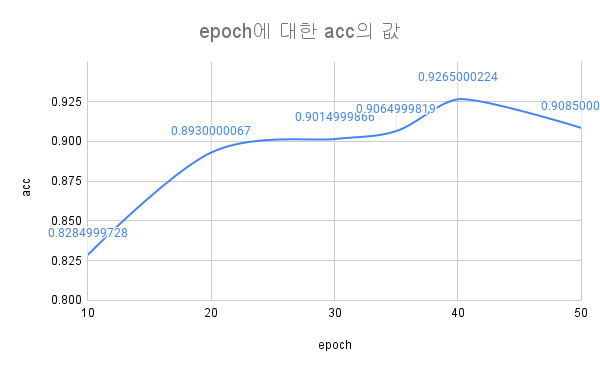
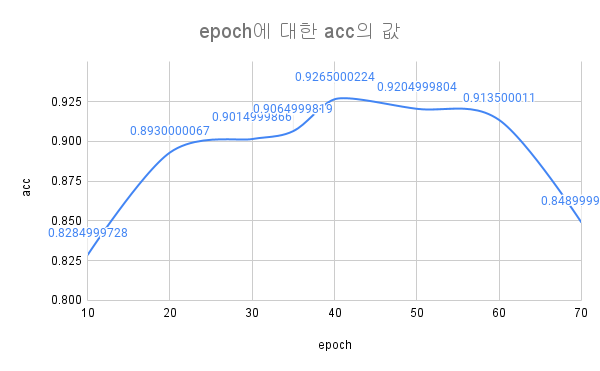
docs: update readme

diff --git a/README.md b/README.md
@@ -22,39 +22,86 @@
 
 ## Experiment
 
-### example(Jupyter Notebook)
+### Example(Jupyter Notebook)
 
 - [cats_and_dogs.ipynb](./cats_and_dogs.ipynb)
 
-### reporting source
+### Reporting source
 
 - [cats_and_dogs_script.py](./src/cats_and_dogs_script.py)
 - [cnn.py(class)](./src/cnn.py)
 
 ## Report
 
-### 실험 환경
+### Experiment Result
+
+- 2021.10.25
+    - 92.65%
+
+### Experiment Environment
 
 - windows 10
 - anaconda3, python 3.9
 - tensorflow 2.5.0
 
-### 하이퍼 파라미터
+### Hyper Parameters
 
 |파라미터|실험 값|최적 값|
 |------|---|---|
 |dropout|0.1, 0.2, 0.3, 0.4, 0.5|0.3|
 |learning rate|0.0001, 0.0003, 0.0005, 0.0007, 0.001, 0.003|0.0007|
-|epoch|10, 20, 30, 35, 40, 50|40|
+|epoch|10, 20, 30, 35, 40, 50, 60, 70|40|
 
-### Chart
+### Uniqueness
 
-![lr_acc](./report/learning_rate_acc.png)
-
+dropout
 ![dropout_acc](./report/dropout_acc.png)
 
+- 기본적으로 높아질 수록 성능이 떨어지는 것으로 보인다.
+- dropout 수치에 10을 곱하여 홀수이면 성능이 낮았고 짝수면 성능이 올라갔다.
+
+learning rate
+![lr_acc](./report/learning_rate_acc.png)
+
+- 0.001보다 작거나 같은 경우에 높은 성능을 보인다.
+- 조정 시, 0.0001 단위로 조정하여 적합한 값을 찾는 것이 좋아 보인다.
+
+learning rate & dropout
 ![dropout_and_learning_rate_acc](./report/dropout_and_learning_rate_acc.png)
 
+- dropout과 learning rate와의 상관관계를 분석하고자 하였다.
+- 두 변수는 서로에게 미치는 영향이 거의 없다고 판단된다.
+
+epoch
 ![epoch_acc](./report/epoch_acc.png)
 
-### predict
+- 40회까지는 횟수에 비례하여 성능이 상승한다.
+- 50회부터는 오히려 성능이 줄어들기 시작하며, 과적합 현상을 보인다.
+
+### Limitations of Experiments
+
+1. 결정적으로 표본의 수가 많이 부족하다. 생각보다 CNN 이미지 학습에 소요되는 시간이 너무 컸다.
+2. 각 epoch에 따른 학습 곡선이 명확하게 과적합인지 판단하기 어려웠다. validation 결과의 오차 범위가 너무 큰 것으로 보인다.
+
+> epoch = 40
+> ![epoch_40](./report/cnn_dr=0.3_lr=0.0007_ep=40_acc.png)
+> ![epoch_40_loss](./report/cnn_dr=0.3_lr=0.0007_ep=40_loss.png)
+>
+> epoch = 50
+> ![epoch_50](./report/cnn_dr=0.3_lr=0.0007_ep=50_acc.png)
+> ![epoch_50_loss](./report/cnn_dr=0.3_lr=0.0007_ep=50_loss.png)
+>
+> epoch = 60
+> ![epoch_60](./report/cnn_dr=0.3_lr=0.0007_ep=60_acc.png)
+> ![epoch_60_loss](./report/cnn_dr=0.3_lr=0.0007_ep=60_loss.png)
+> epoch = 70
+> ![epoch_70](./report/cnn_dr=0.3_lr=0.0007_ep=70_acc.png)
+> ![epoch_70_loss](./report/cnn_dr=0.3_lr=0.0007_ep=70_loss.png)
+
+### Predict
+
+> learning rate: 0.0007
+> dropout: 0.3
+> epoch: 40
+
+- [555.csv](./report/555.csv)
